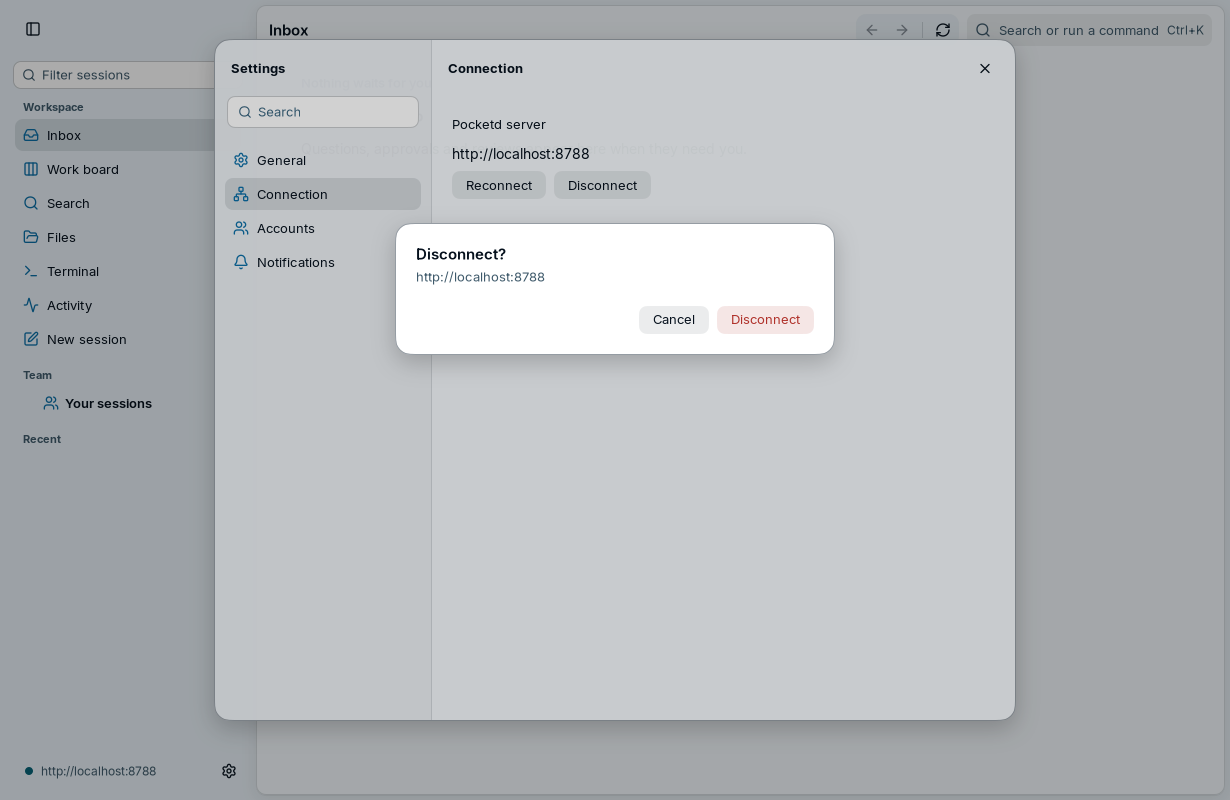
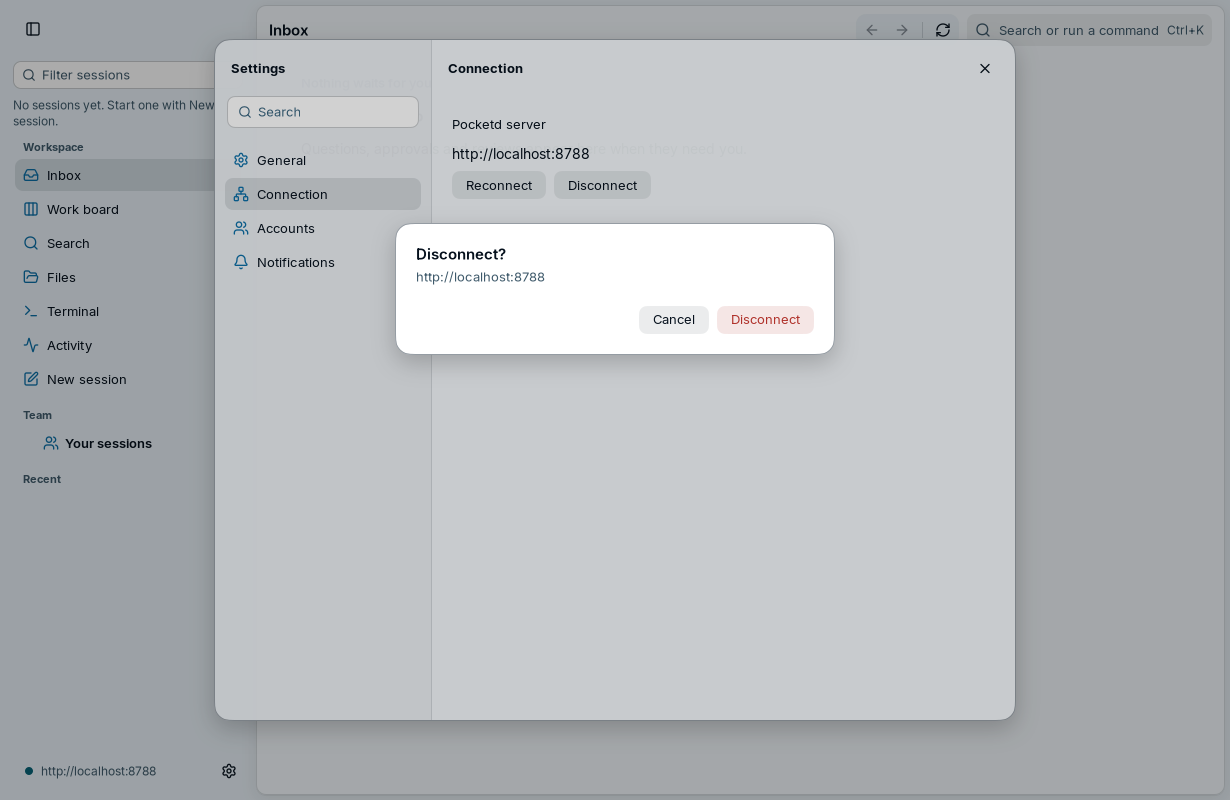
feat(desktop): say when a list failed to load in the NSGo client
A list that failed to load now says so, says what may be missing for it,
and offers Try Again, in the Inbox, on the work board and in the
sidebar: the sessions, the profiles, the plans, the asks, the lessons,
the pull requests, the approvals, the threads, the proposals and the
schedules. The Inbox showed a bare error with no way to try again, and
the board and the sidebar showed nothing.

The board and the sidebar say there is no thread or no session only once
the list loaded, and say when they are loading. A schedules file that
does not go out says why.

diff --git a/desktop/internal/nsgoclient/board.go b/desktop/internal/nsgoclient/board.go
@@ -11,6 +11,7 @@ import (
 	"github.com/frostyard/pocketgo/desktop/internal/state"
 	"github.com/frostyard/pocketgo/proto"
 	"github.com/nsgo-dev/nsgo/core"
+	"github.com/nsgo-dev/nsgo/icons/lucide"
 	"github.com/nsgo-dev/nsgo/ui"
 )
 
@@ -49,6 +50,34 @@ func (c *client) board(cx *core.Scope) core.Node {
 		}}
 	}
 	nodes := []core.Node{core.Text{ContentFunc: func() string { c.revision.Get(); return d.BoardNote() }, Style: ui.TypeLabel, StyleFunc: ui.Colored(ui.ColorsOf(cx).Muted)}}
+	// What the board could not load, and a board with no thread: loading,
+	// or none yet. It says there is none only once the threads loaded.
+	nodes = append(nodes, core.Dynamic(func(*core.Scope) core.Node {
+		c.revision.Get()
+		var out []core.Node
+		for _, list := range []struct {
+			status        func() (state.ListStatus, string)
+			what, missing string
+		}{
+			{d.ThreadsStatus, "the threads", "Threads may be missing or out of date."},
+			{d.AsksStatus, "the asks", "A thread may wait for your answer and not say so."},
+			{d.PullsStatus, "the pull requests", "A thread may wait for your review and not say so."},
+		} {
+			if status, problem := list.status(); status == state.ListFailed {
+				out = append(out, c.listProblem(list.what, problem, list.missing, c.store.Refresh))
+			}
+		}
+		if status, _ := d.ThreadsStatus(); len(d.Threads()) == 0 {
+			switch status {
+			case state.ListLoading:
+				out = append(out, body("Loading the threads…"))
+			case state.ListLoaded:
+				out = append(out, core.View{Style: core.Style{Height: core.Pt(180)}, Children: []core.Node{workspaceui.EmptyState{Icon: lucide.Columns3, Title: "No threads yet",
+					Hint: "When a supervisor delegates work to a specialist, its thread shows here."}}})
+			}
+		}
+		return core.Group(out)
+	}))
 	openBoard := core.Show{When: func() bool { return len(byState.Get()[proto.ThreadClosed]) < len(d.Threads()) },
 		Then: func(cx *core.Scope) core.Node { return c.threadLanes(cx, byState.Get) }}
 	closed := func() []proto.Thread { return byState.Get()[proto.ThreadClosed] }
@@ -62,10 +91,20 @@ func (c *client) board(cx *core.Scope) core.Node {
 			}
 			return workspaceui.Stack(cards...)
 		})
-	}), section("Schedules", true, func() int { c.revision.Get(); return len(d.Schedules().Schedules) }, nil, func(*core.Scope) core.Node {
+	}), section("Schedules", true, func() int { c.revision.Get(); return len(d.Schedules().Schedules) }, func() bool {
+		c.revision.Get()
+		status, _ := d.SchedulesStatus()
+		return len(d.Schedules().Schedules) > 0 || status == state.ListFailed || d.Schedules().Problem != ""
+	}, func(*core.Scope) core.Node {
 		return core.Dynamic(func(*core.Scope) core.Node {
 			c.revision.Get()
 			var cards []core.Node
+			if status, problem := d.SchedulesStatus(); status == state.ListFailed {
+				cards = append(cards, c.listProblem("the schedules", problem, "Schedules may be missing or out of date.", c.store.Refresh))
+			}
+			if problem := d.Schedules().Problem; problem != "" {
+				cards = append(cards, workspaceui.Banner{Tone: workspaceui.Warning, Text: "None of your schedules file goes out: " + problem})
+			}
 			for _, s := range d.Schedules().Schedules {
 				r := state.ScheduleRowOf(s, time.Now())
 				cards = append(cards, workspaceui.Card{Children: []core.Node{title(r.ID), body(strings.Join(nonempty(r.When, r.Next, r.Action, r.Last, r.Problem), " · "))}})
@@ -75,7 +114,8 @@ func (c *client) board(cx *core.Scope) core.Node {
 	}))
 	proposals := func() int { c.revision.Get(); return len(d.BoardProposals()) }
 	nodes = append(nodes, section("Night shift", true, proposals, func() bool {
-		return proposals() > 0 || c.store.LaunchUncertain() || c.store.Launching().Err != "" || c.launchNote() != ""
+		status, _ := d.ProposalsStatus()
+		return proposals() > 0 || status == state.ListFailed || c.store.LaunchUncertain() || c.store.Launching().Err != "" || c.launchNote() != ""
 	}, c.nightShift))
 	return core.Scroll{Style: ui.FillRest, Children: []core.Node{core.View{
 		Style: core.Style{Width: core.Pct(100), MaxWidth: core.Pt(1560), AlignSelf: core.AlignCenter, Padding: core.All(workspaceui.SpaceL), Gap: 14}, Children: nodes,
@@ -302,6 +342,9 @@ func (c *client) nightShift(cx *core.Scope) core.Node {
 	rows := core.Dynamic(func(*core.Scope) core.Node {
 		c.revision.Get()
 		var cards []core.Node
+		if status, problem := c.store.Data.ProposalsStatus(); status == state.ListFailed {
+			cards = append(cards, c.listProblem("the proposals", problem, "Proposals may be missing or out of date.", c.store.Refresh))
+		}
 		for _, p := range c.store.Data.BoardProposals() {
 			label := "Pick"
 			if c.store.Picked(p.ID) {

diff --git a/desktop/internal/nsgoclient/failed_test.go b/desktop/internal/nsgoclient/failed_test.go
@@ -1,0 +1,85 @@
+package nsgoclient
+
+import (
+	"net/http"
+	"testing"
+	"time"
+
+	"github.com/frostyard/pocketgo/desktop/internal/pocketdtest"
+	"github.com/frostyard/pocketgo/proto"
+)
+
+// A list that failed to load says so, says what may be missing for it,
+// and offers Try Again; no view shows it as empty. These hold for the
+// NSGo client what TestASessionListThatFailedToLoadSaysSo,
+// TestABoardWhoseThreadsFailedToLoadSaysSo and
+// TestAnInboxWhoseLessonsFailedToLoadSaysSo hold for the MyGo client.
+
+func TestASessionListThatFailedToLoadSaysSo(t *testing.T) {
+	s := pocketdtest.New()
+	s.FailOnce(http.MethodGet, proto.PathSessions, http.StatusBadGateway)
+	app := signedInApp(t, s, 1230, 800)
+	app.WaitFor("sidebar-panel >> text:Loading the sessions failed", 5*time.Second)
+	if app.Exists("text:No sessions yet. Start one with New session.") {
+		t.Error("the sidebar says there is no session though the list did not load")
+	}
+	// The Inbox says what may wait unseen.
+	app.WaitFor("text:A session may wait for your answer to its question that this list does not show.", 5*time.Second)
+	app.Press("sidebar-panel >> role:button Try Again")
+	app.WaitFor("text:No sessions yet. Start one with New session.", 5*time.Second)
+	app.WaitForGone("text:Loading the sessions failed", 5*time.Second)
+}
+
+func TestABoardWhoseThreadsFailedToLoadSaysSo(t *testing.T) {
+	s := pocketdtest.New()
+	s.FailOnce(http.MethodGet, proto.PathThreads, http.StatusBadGateway)
+	app := signedInApp(t, s, 1230, 800)
+	app.Press("text:Work board")
+	app.WaitFor("text:The threads are not loaded", 5*time.Second)
+	app.WaitFor("text:Threads may be missing or out of date.", 5*time.Second)
+	if app.Exists("text:No threads yet") {
+		t.Error("a board that failed to load says there are no threads")
+	}
+	app.Press("role:button Try Again")
+	app.WaitFor("text:No threads yet", 5*time.Second)
+	app.WaitFor("text:No thread is on the desk", 5*time.Second)
+	app.WaitForGone("text:Loading the threads failed", 5*time.Second)
+}
+
+func TestAnInboxWhoseListsFailedToLoadSaysSo(t *testing.T) {
+	for _, list := range []struct{ path, says string }{
+		{proto.PathLessons, "Loading the lessons failed"},
+		{proto.PathAsks, "Loading the asks failed"},
+		{proto.PathPulls, "Loading the pull requests failed"},
+	} {
+		s := pocketdtest.New()
+		s.FailOnce(http.MethodGet, list.path, http.StatusBadGateway)
+		app := signedInApp(t, s, 1230, 800)
+		app.WaitFor("text:"+list.says, 5*time.Second)
+		if app.Exists("text:You’re caught up") {
+			t.Errorf("%s: the Inbox says nothing waits though a list did not load", list.path)
+		}
+		app.Press("role:button Try Again")
+		app.WaitFor("text:You’re caught up", 5*time.Second)
+		app.WaitForGone("text:"+list.says, 5*time.Second)
+	}
+}
+
+func TestSchedulesThatFailedToLoadSaySo(t *testing.T) {
+	s := pocketdtest.New()
+	s.FailOnce(http.MethodGet, proto.PathSchedules, http.StatusBadGateway)
+	app := signedInApp(t, s, 1230, 800)
+	app.Press("text:Work board")
+	app.WaitFor("text:Loading the schedules failed", 5*time.Second)
+	app.Press("role:button Try Again")
+	app.WaitForGone("text:Loading the schedules failed", 5*time.Second)
+
+}
+
+func TestASchedulesFileThatDoesNotGoOutSaysSo(t *testing.T) {
+	s := pocketdtest.New()
+	s.SetSchedules(proto.Schedules{Problem: "line 3: no such agent"})
+	app := signedInApp(t, s, 1230, 800)
+	app.Press("text:Work board")
+	app.WaitFor("text:None of your schedules file goes out: line 3: no such agent", 5*time.Second)
+}

diff --git a/desktop/internal/nsgoclient/client.go b/desktop/internal/nsgoclient/client.go
@@ -299,6 +299,35 @@ func (c *client) sections() []ui.SidebarSection {
 	}
 	return sections
 }
+
+// sidebarNotes say when the sessions or the agents' profiles failed to
+// load, with a way to load them again, and when the sessions are loading
+// or there is none: the sidebar says there is none only once they loaded.
+// Without the profiles the team's agents show by their ids, and only
+// those with sessions.
+func (c *client) sidebarNotes() core.Node {
+	return core.Dynamic(func(cx *core.Scope) core.Node {
+		c.revision.Get()
+		d := &c.store.Data
+		var out []core.Node
+		note := func(text string) core.Node {
+			return core.Text{Content: text, Style: ui.TypeCaption, StyleFunc: ui.Colored(ui.ColorsOf(cx).Muted)}
+		}
+		switch status, problem := d.SessionsStatus(); {
+		case status == state.ListFailed:
+			out = append(out, c.listProblem("the sessions", problem, "", c.store.Refresh))
+		case status == state.ListLoading && len(d.Sessions()) == 0:
+			out = append(out, note("Loading the sessions…"))
+		case status == state.ListLoaded && len(d.Sessions()) == 0:
+			out = append(out, note("No sessions yet. Start one with New session."))
+		}
+		if status, problem := d.ProfilesStatus(); status == state.ListFailed {
+			out = append(out, c.listProblem("the agents' profiles", problem, "", c.store.LoadProfiles))
+		}
+		return core.Group(out)
+	})
+}
+
 func (c *client) workspace(cx *core.Scope) core.Node {
 	settingsOpen := core.NewSignal(cx, false)
 	showSettings := func() {
@@ -316,8 +345,8 @@ func (c *client) workspace(cx *core.Scope) core.Node {
 				return fmt.Sprintf("session/%d", c.session.Get())
 			}
 			return c.page.Get()
-		}, SidebarHeader: []core.Node{core.View{Style: core.Style{Padding: core.All(workspaceui.SpaceS)}, Children: []core.Node{
-			workspaceui.SearchField{Placeholder: "Filter sessions", Value: c.filter.Get, OnChange: c.filter.Set}}}},
+		}, SidebarHeader: []core.Node{core.View{Style: core.Style{Padding: core.All(workspaceui.SpaceS), Gap: workspaceui.SpaceS}, Children: []core.Node{
+			workspaceui.SearchField{Placeholder: "Filter sessions", Value: c.filter.Get, OnChange: c.filter.Set}, c.sidebarNotes()}}},
 		SidebarFooter: []core.Node{c.sidebarFoot(showSettings)},
 		Header: []core.Node{core.Text{MaxLines: 1, Style: ui.TypeTitle, ContentFunc: func() string {
 			if c.page.Get() == "Session" {

diff --git a/desktop/internal/nsgoclient/work.go b/desktop/internal/nsgoclient/work.go
@@ -11,6 +11,17 @@ import (
 	"github.com/nsgo-dev/nsgo/ui"
 )
 
+// listProblem says a list failed to load and what may be missing for it,
+// with a way to load it again: a view never shows a list it could not
+// load as empty (the kit's standard for an app, rule 6).
+func (c *client) listProblem(what, problem, missing string, retry func()) core.Node {
+	text := "Loading " + what + " failed: " + problem
+	if missing != "" {
+		text += ". " + missing
+	}
+	return workspaceui.Banner{Tone: workspaceui.Danger, Text: text, Action: "Try Again", OnAction: func() { retry(); c.changed() }}
+}
+
 func title(s string) core.Node { return core.Text{Content: s, Style: ui.TypeTitle} }
 func body(s string) core.Node  { return core.Text{Content: s, Selectable: core.SelectableOn} }
 
@@ -61,11 +72,23 @@ func (c *client) inbox(cx *core.Scope) core.Node {
 		c.revision.Get()
 		var out []core.Node
 		loading := false
-		for _, check := range []func() (state.ListStatus, string){d.SessionsStatus, d.ApprovalsStatus, d.AsksStatus, d.LessonsStatus, d.PullsStatus, d.PlansStatus} {
-			status, err := check()
+		// Each list that failed says what may wait unseen, in the Inbox's
+		// order.
+		for _, list := range []struct {
+			status        func() (state.ListStatus, string)
+			what, missing string
+		}{
+			{d.PlansStatus, "the plans", "Plans may wait for your approval that this list does not show."},
+			{d.AsksStatus, "the asks", "Asks may wait for you that this list does not show."},
+			{d.LessonsStatus, "the lessons", "Lessons may wait for you that this list does not show."},
+			{d.PullsStatus, "the pull requests", "Pull requests may wait for your review that this list does not show."},
+			{d.ApprovalsStatus, "the approvals", "Calls may wait for you that this list does not show."},
+			{d.SessionsStatus, "the sessions", "A session may wait for your answer to its question that this list does not show."},
+		} {
+			status, problem := list.status()
 			loading = loading || status == state.ListLoading
-			if err != "" {
-				out = append(out, body(err))
+			if status == state.ListFailed {
+				out = append(out, c.listProblem(list.what, problem, list.missing, c.store.Refresh))
 			}
 		}
 		for _, r := range c.store.AnswerRefusals() {
